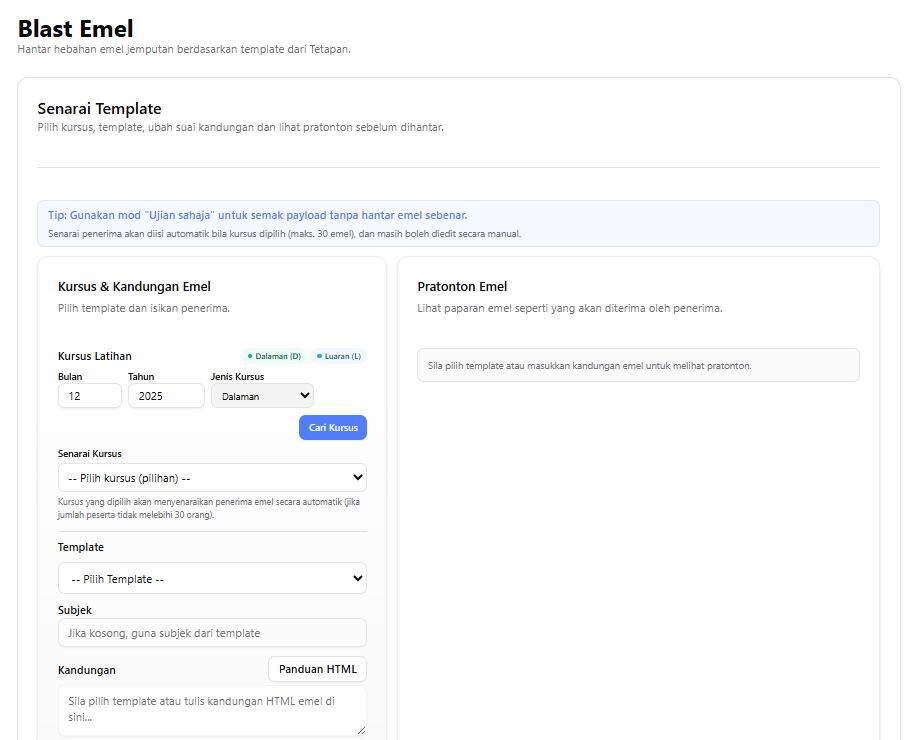
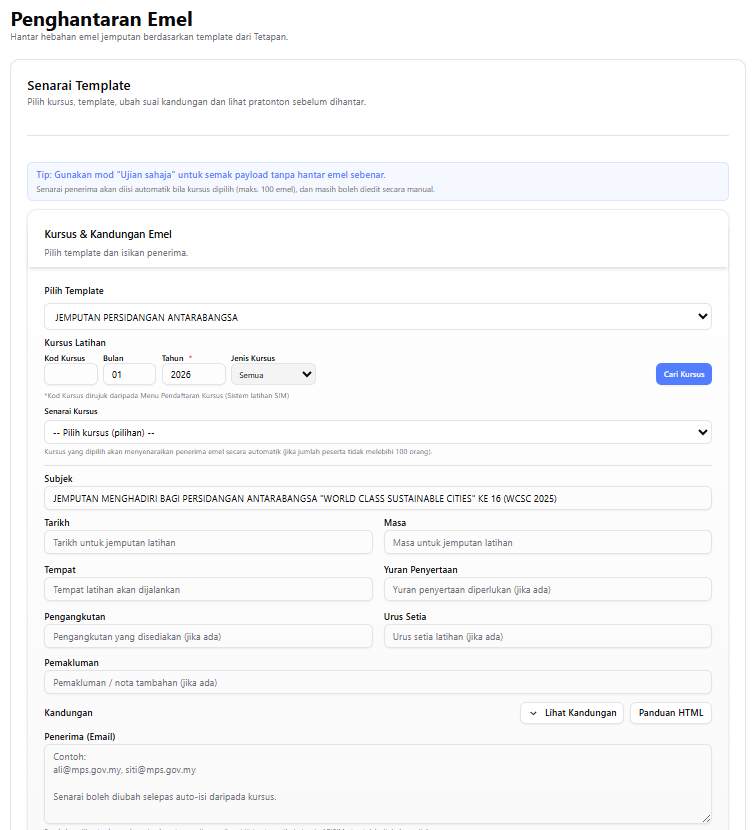
tukar penghantaran emel4

diff --git a/docs/.vitepress/config.ts b/docs/.vitepress/config.ts
@@ -102,7 +102,7 @@ export default defineConfig({
           items: [
             { text: 'Urus Tempoh Permohonan', link: '/adminjab/pengurusan-emel/tempoh-permohonan' },
             { text: 'Urus Template Emel', link: '/adminjab/pengurusan-emel/template-emel' },
-            { text: 'Blast Emel Jemputan', link: '/adminjab/pengurusan-emel/blast-emel' }
+            { text: 'Penghantaran Emel Jemputan', link: '/adminjab/pengurusan-emel/Penghantaran-emel' }
           ]
         }
       ],

diff --git a/manual-print.js b/manual-print.js
@@ -35,7 +35,7 @@ const ADMIN_ROUTES = [
   '/admin/pengurusan-pengguna/tambah-pengguna',
   '/admin/pengurusan-pengguna/kemaskini-pengguna',
   '/admin/pengurusan-emel/template-emel',
-  '/admin/pengurusan-emel/blast-emel',
+  '/admin/pengurusan-emel/Penghantaran-emel',
 ];
 
 // =============================

diff --git a/docs/admin/pengurusan-emel/blast-emel.md b/docs/admin/pengurusan-emel/blast-emel.md
@@ -1,19 +1,19 @@
-# Panduan Blast Emel Kursus
+# Panduan Penghantaran Emel Kursus
 
 ::: info Tujuan
-Membantu admin menghantar emel kursus secara pukal (blast) kepada peserta latihan dalam atau luaran berdasarkan tarikh kursus dan jenis kursus yang dipilih.
+Membantu admin menghantar emel kursus secara pukal (Penghantaran) kepada peserta latihan dalam atau luaran berdasarkan tarikh kursus dan jenis kursus yang dipilih.
 :::
 
-## Langkah-langkah Blast Emel Kursus
-### 1. Akses Modul Blast Emel
+## Langkah-langkah Penghantaran Emel Kursus
+### 1. Akses Modul Penghantaran Emel
 
 ::: tip Langkah 1
 
 1. Log masuk ke dalam sistem
-2. Pilih menu **Blast Emel**
+2. Pilih menu **Penghantaran Emel**
 3. Sistem akan memaparkan senarai kursus, jenis template, protonton dan serta senarai penerima.
 :::
-![Blast Emel](/image/admin/blast-emel.png)
+![Penghantaran Emel](/image/admin/Penghantaran-emel.png)
 
 ### 2. Pilih Tarikh & Jenis Kursus
 ::: tip Langkah 2
@@ -65,7 +65,7 @@ Template boleh:
 :::
 
 
-### 5. Menghantar Blast Emel
+### 5. Menghantar Penghantaran Emel
 ::: tip Langkah 6
 1) Setelah semua maklumat lengkap, admin boleh menghantar emel.
 2) Semak semua maklumat penerima.

diff --git a/docs/adminjab/pengurusan-emel/blast-emel.md b/docs/adminjab/pengurusan-emel/blast-emel.md
@@ -1,19 +1,19 @@
-# Panduan Blast Emel Kursus
+# Panduan Penghantaran Emel Kursus
 
 ::: info Tujuan
-Membantu admin menghantar emel kursus secara pukal (blast) kepada peserta latihan dalam atau luaran berdasarkan tarikh kursus dan jenis kursus yang dipilih.
+Membantu admin menghantar emel kursus secara pukal (Penghantaran) kepada peserta latihan dalam atau luaran berdasarkan tarikh kursus dan jenis kursus yang dipilih.
 :::
 
-## Langkah-langkah Blast Emel Kursus
-### 1. Akses Modul Blast Emel
+## Langkah-langkah Penghantaran Emel Kursus
+### 1. Akses Modul Penghantaran Emel
 
 ::: tip Langkah 1
 
 1. Log masuk ke dalam sistem
-2. Pilih menu **Blast Emel**
+2. Pilih menu **Penghantaran Emel**
 3. Sistem akan memaparkan senarai kursus, jenis template, protonton dan serta senarai penerima.
 :::
-![Blast Emel](/image/admin/blast-emel.png)
+![Penghantaran Emel](/image/admin/Penghantaran-emel.png)
 
 ### 2. Pilih Tarikh & Jenis Kursus
 ::: tip Langkah 2
@@ -65,7 +65,7 @@ Template boleh:
 :::
 
 
-### 5. Menghantar Blast Emel
+### 5. Menghantar Penghantaran Emel
 ::: tip Langkah 6
 1) Setelah semua maklumat lengkap, admin boleh menghantar emel.
 2) Semak semua maklumat penerima.

diff --git a/docs/admin/index.md b/docs/admin/index.md
@@ -11,7 +11,7 @@ Halaman ini mengandungi panduan untuk pengguna admin yang mengurus modul latihan
 - **Laporan Latihan**: Pengurusan peserta, pengurusan penceramah, laporan penilaian
 - **Pengurusan Permohonan**: Semak permohonan, tetapkan tempoh permohonan
 - **Pengurusan Pengguna (Admin IT)**: Tambah/kemaskini akaun admin jabatan
-- **Pengurusan Emel**: Tambah template emel, hantar blast emel
+- **Pengurusan Emel**: Tambah template emel, hantar Penghantaran emel
 
 ---
 
@@ -34,6 +34,6 @@ Halaman ini mengandungi panduan untuk pengguna admin yang mengurus modul latihan
 ## Pengurusan Emel
 
 - [Tambah Template Emel](/admin/pengurusan-emel/template-emel)
-- [Blast Emel](/admin/pengurusan-emel/blast-emel)
+- [Penghantaran Emel](/admin/pengurusan-emel/Penghantaran-emel)
 
 Untuk sokongan lanjut, hubungi Admin Sistem.

diff --git a/docs/adminjab/pengurusan-emel/template-emel.md b/docs/adminjab/pengurusan-emel/template-emel.md
@@ -64,5 +64,5 @@ Isikan maklumat berikut pada borang Template Emel:
 ::: warning Nota
 - Pastikan semua maklumat wajib diisi sebelum menekan Simpan.
 - Kandungan HTML perlu dirangka dengan betul untuk mengelakkan paparan emel menjadi tidak teratur.
-- Template yang disimpan boleh digunakan semasa penghantaran blast emel.
+- Template yang disimpan boleh digunakan semasa penghantaran Penghantaran emel.
 :::

diff --git a/docs/admin/pengurusan-emel/template-emel.md b/docs/admin/pengurusan-emel/template-emel.md
@@ -64,5 +64,5 @@ Isikan maklumat berikut pada borang Template Emel:
 ::: warning Nota
 - Pastikan semua maklumat wajib diisi sebelum menekan Simpan.
 - Kandungan HTML perlu dirangka dengan betul untuk mengelakkan paparan emel menjadi tidak teratur.
-- Template yang disimpan boleh digunakan semasa penghantaran blast emel.
+- Template yang disimpan boleh digunakan semasa penghantaran emel.
 :::

diff --git a/docs/adminjab/index.md b/docs/adminjab/index.md
@@ -23,7 +23,7 @@ Peranan  **Admin Jabatan** ini bertanggungjawab mengurus penyertaan latihan, ang
 
 - [Urus Tempoh Permohonan](/adminjab/pengurusan-emel/tempoh-permohonan)
 - [Urus Template Emel](/adminjab/pengurusan-emel/template-emel)
-- [Blast Emel Jemputan](/adminjab/pengurusan-emel/blast-emel)
+- [Penghantaran Emel Jemputan](/adminjab/pengurusan-emel/Penghantaran-emel)
 
 ---
 

diff --git a/docs/index.md b/docs/index.md
@@ -37,7 +37,7 @@ features:
    
 
   - icon: 📩
-    title: Blast Emel
-    details: Blast Emel (Pengguna Admin sahaja).
+    title: Penghantaran Emel
+    details: Penghantaran Emel (Pengguna Admin sahaja).
 
 ---
